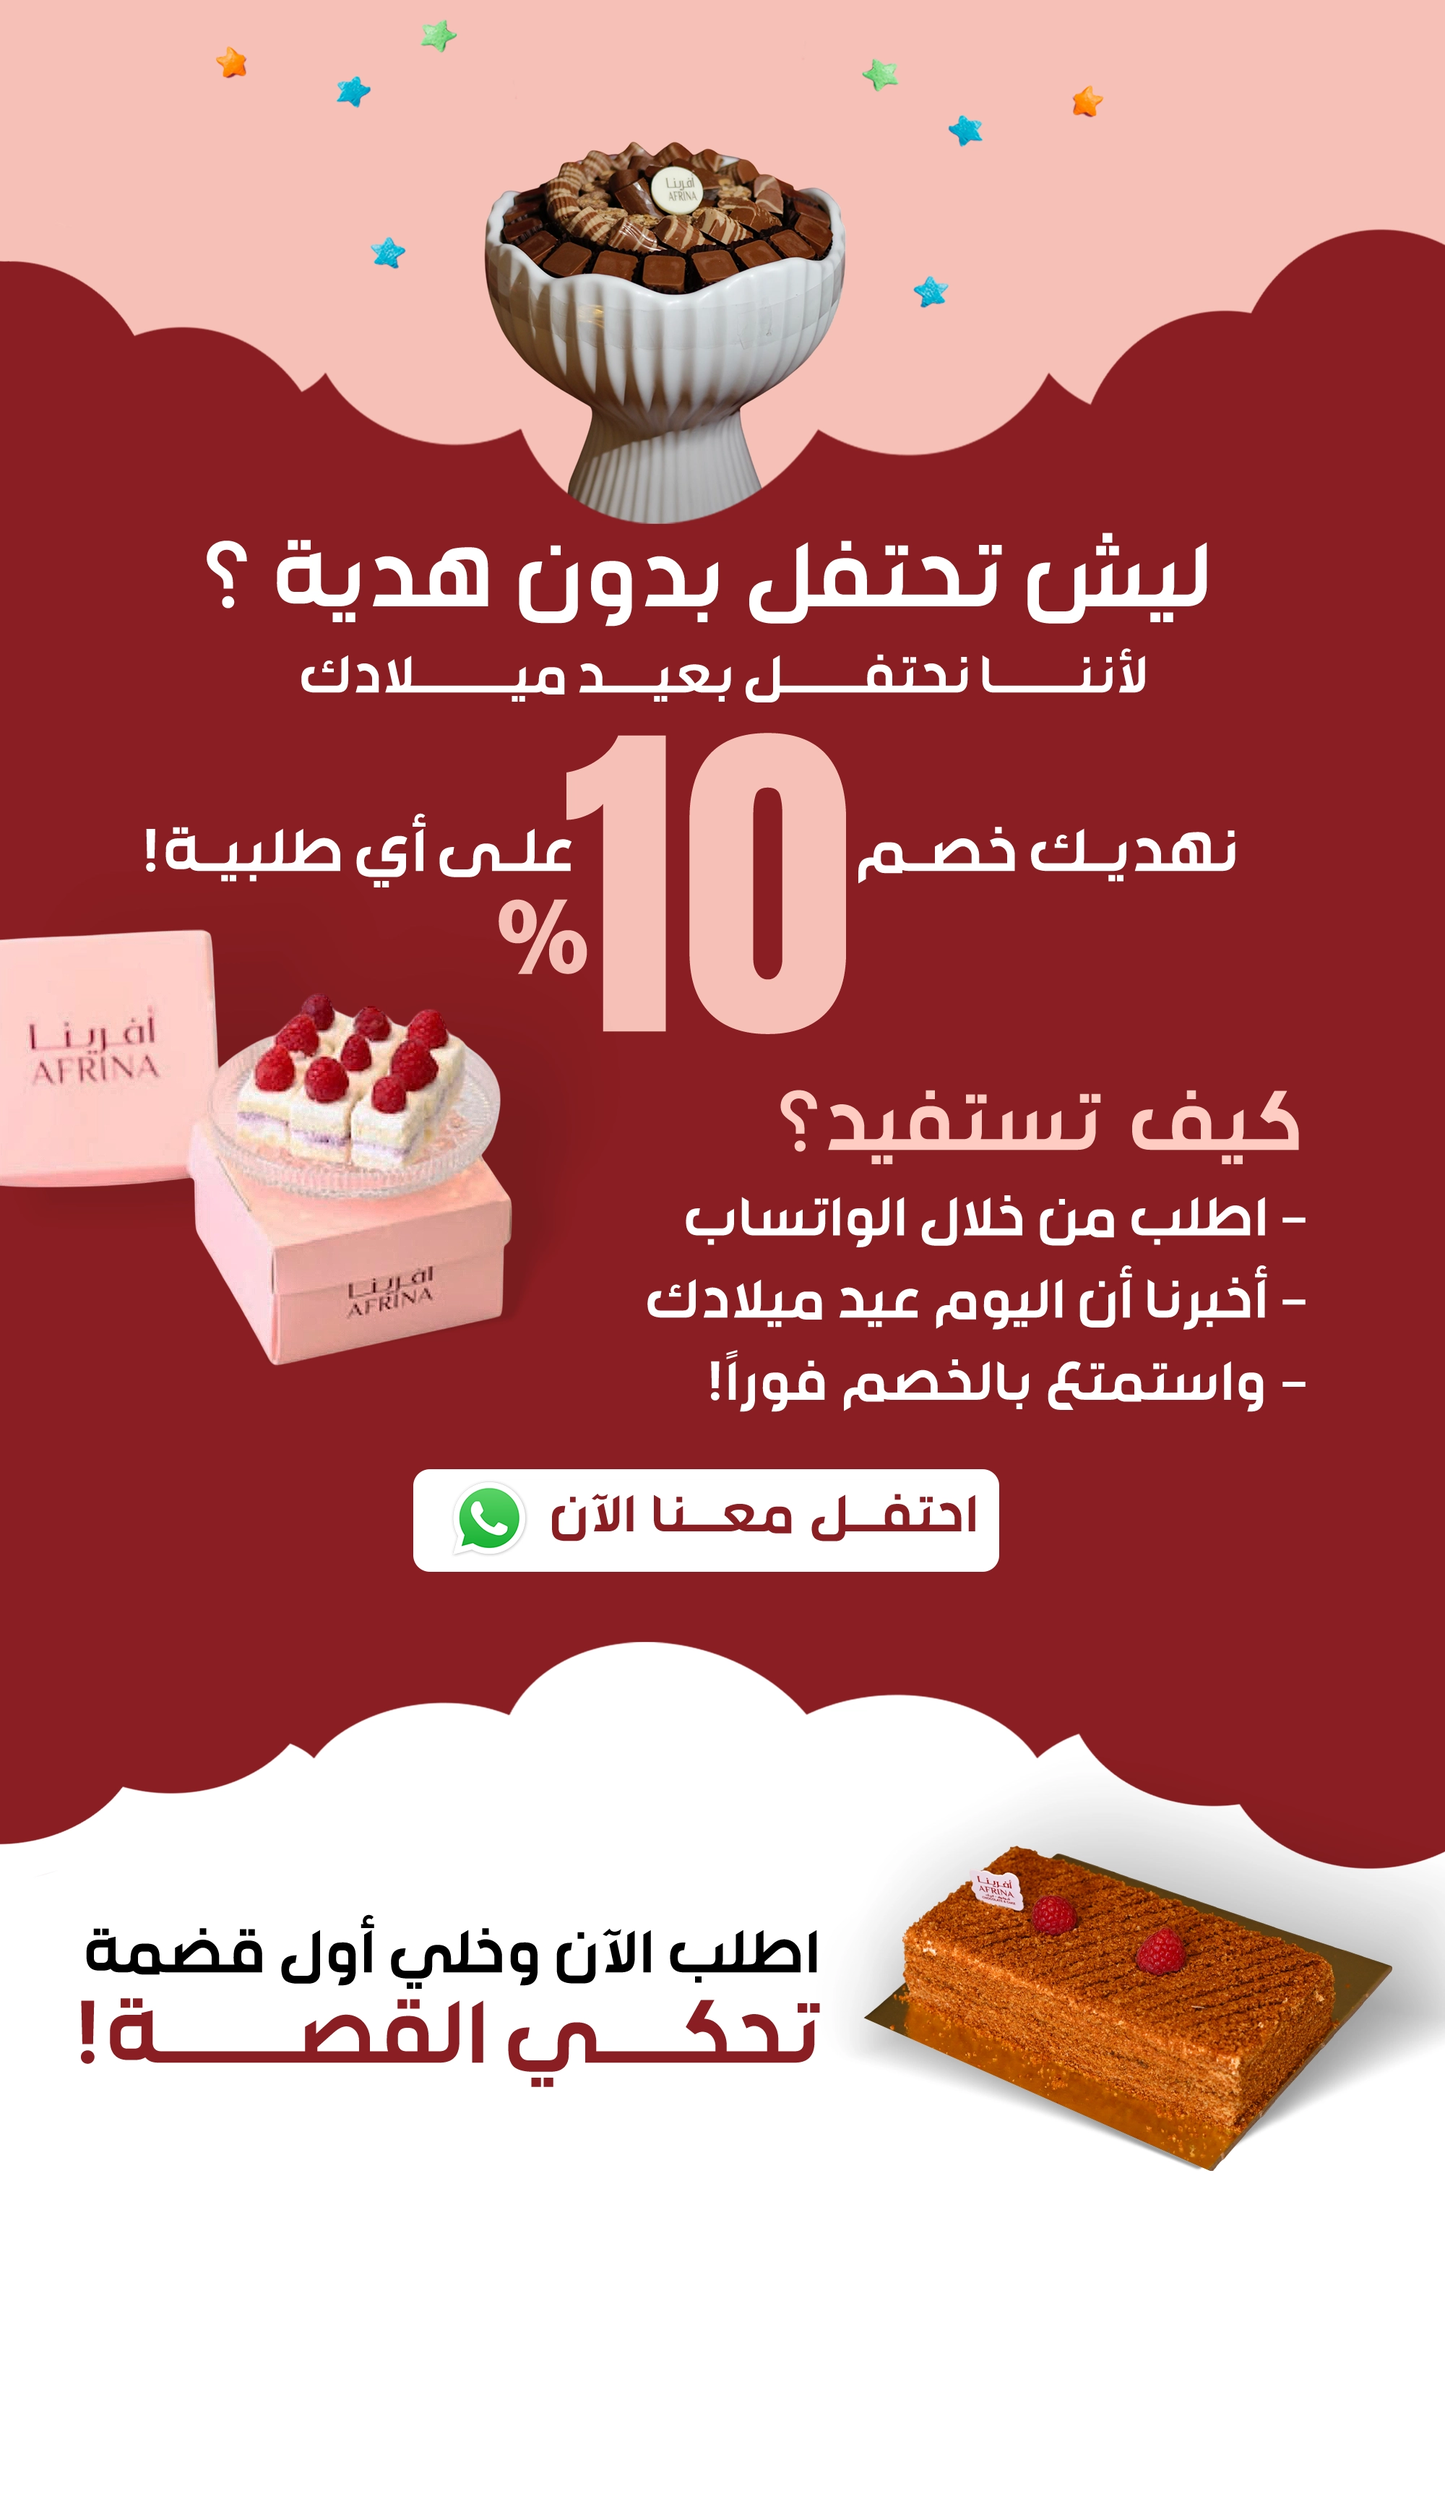
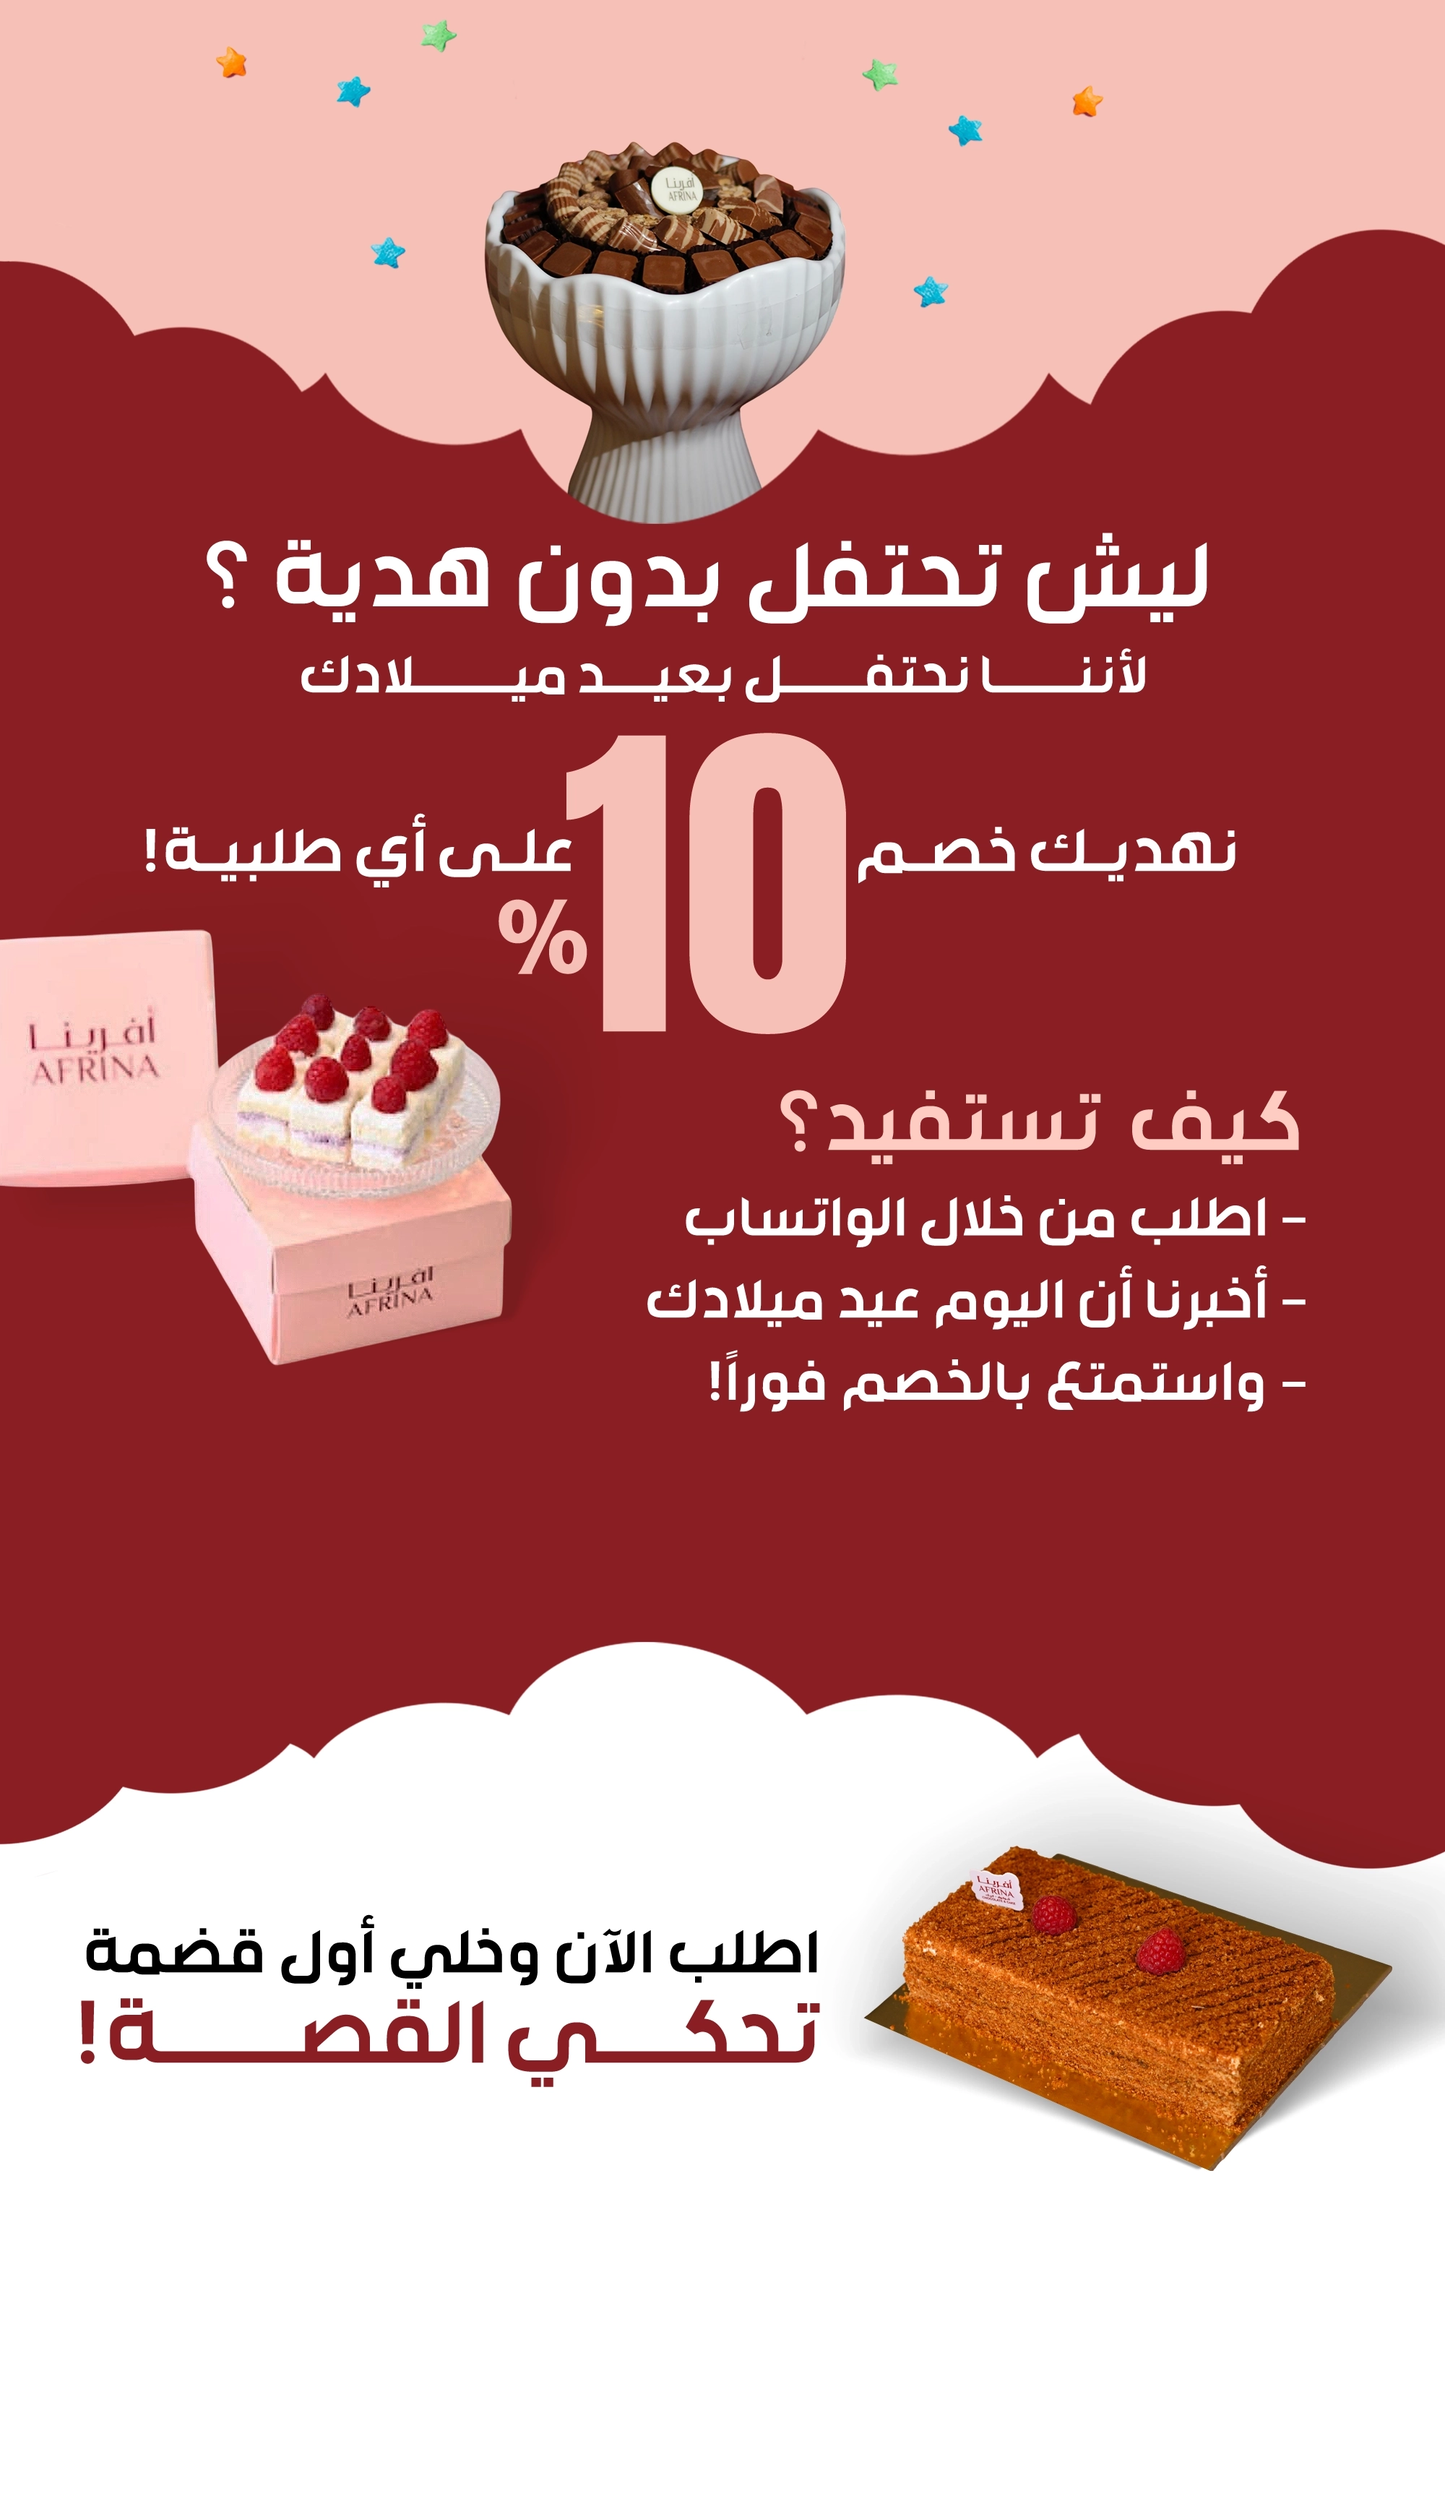
yyy

Changed region(s): [[0.279, 0.5622, 0.713, 0.6559]]

diff --git a/index.html b/index.html
@@ -26,11 +26,11 @@
   <body>
     <!-- Start first section -->
     <div
-      class="bg-top bg-no-repeat h-[600px] md:h-[1707px] w-full relative items-center  justify-center"
+      class="bg-top bg-no-repeat h-[600px] md:h-[1707px] w-full relative items-center justify-center"
       style="background-image: url('public/1 (2).webp'); background-size: 100%"
     >
             <button
-          class="button text-white flex text-nowrap  gap-5 rounded-md absolute left-1/2 bottom-[42%]  md:bottom-[20%] translate-x-[-50%] translate-y-[-50%] md:translate-y-[50%] py-2 px-3 md:text-3xl"
+          class="button text-white flex text-nowrap  gap-5 rounded-md absolute left-1/2 bottom-[43%]  md:bottom-[20%] translate-x-[-50%] translate-y-[-50%] md:translate-y-[50%] py-2 px-3 md:text-3xl"
         >
           <a href="https://wa.me/0575035781" class="flex items-center" target="_blank">
             <p class="mt-[1px]">
@@ -327,6 +327,21 @@
     </div>
     <!-- end contact button -->
     <!-- start ليش تحتفل -->
+
+
+
+
+    <div class="flex justify-center relative  bottom-[-470px]   md:bottom-[-1027px]" >
+  
+      <button
+      class="button text-[#8a1e23] !bg-white flex font-semibold gap-5 rounded-md py-2 px-7 text-2xl md:text-3xl  mb-5 "
+      >
+      <a href="https://wa.me/0575035781" target="_blank"> تواصل معنا الان </a>
+      <p class="bg-[#21b539] h-[34px] rounded-full">
+        <i class="fa-brands fa-whatsapp text-white text-4xl"></i>
+       </p>
+     </button>
+   </div>
     <div
       class="bg-top bg-no-repeat h-[700px] md:h-[1630px] w-full flex items-end justify-center"
       style="background-image: url('public/4.webp'); background-size: 100% 100%"
@@ -343,6 +358,9 @@
          </p>
        </button>
      </div>
+
+
+     
     </div>
     <!-- end ليش تحتفل -->
     <!-- start footer -->

diff --git a/src/style.css b/src/style.css
@@ -4,7 +4,7 @@ body {
   background-color: #f6c0b7;
 }
 button {
-  background-color: rgb(138 30 35);
+  background-color: #8a1e23;
 }
 .faa {
   display: flex !important;
@@ -19,5 +19,6 @@ body {
 
 .swiper {
   width: 600px;
+
   height: 300px;
 }
